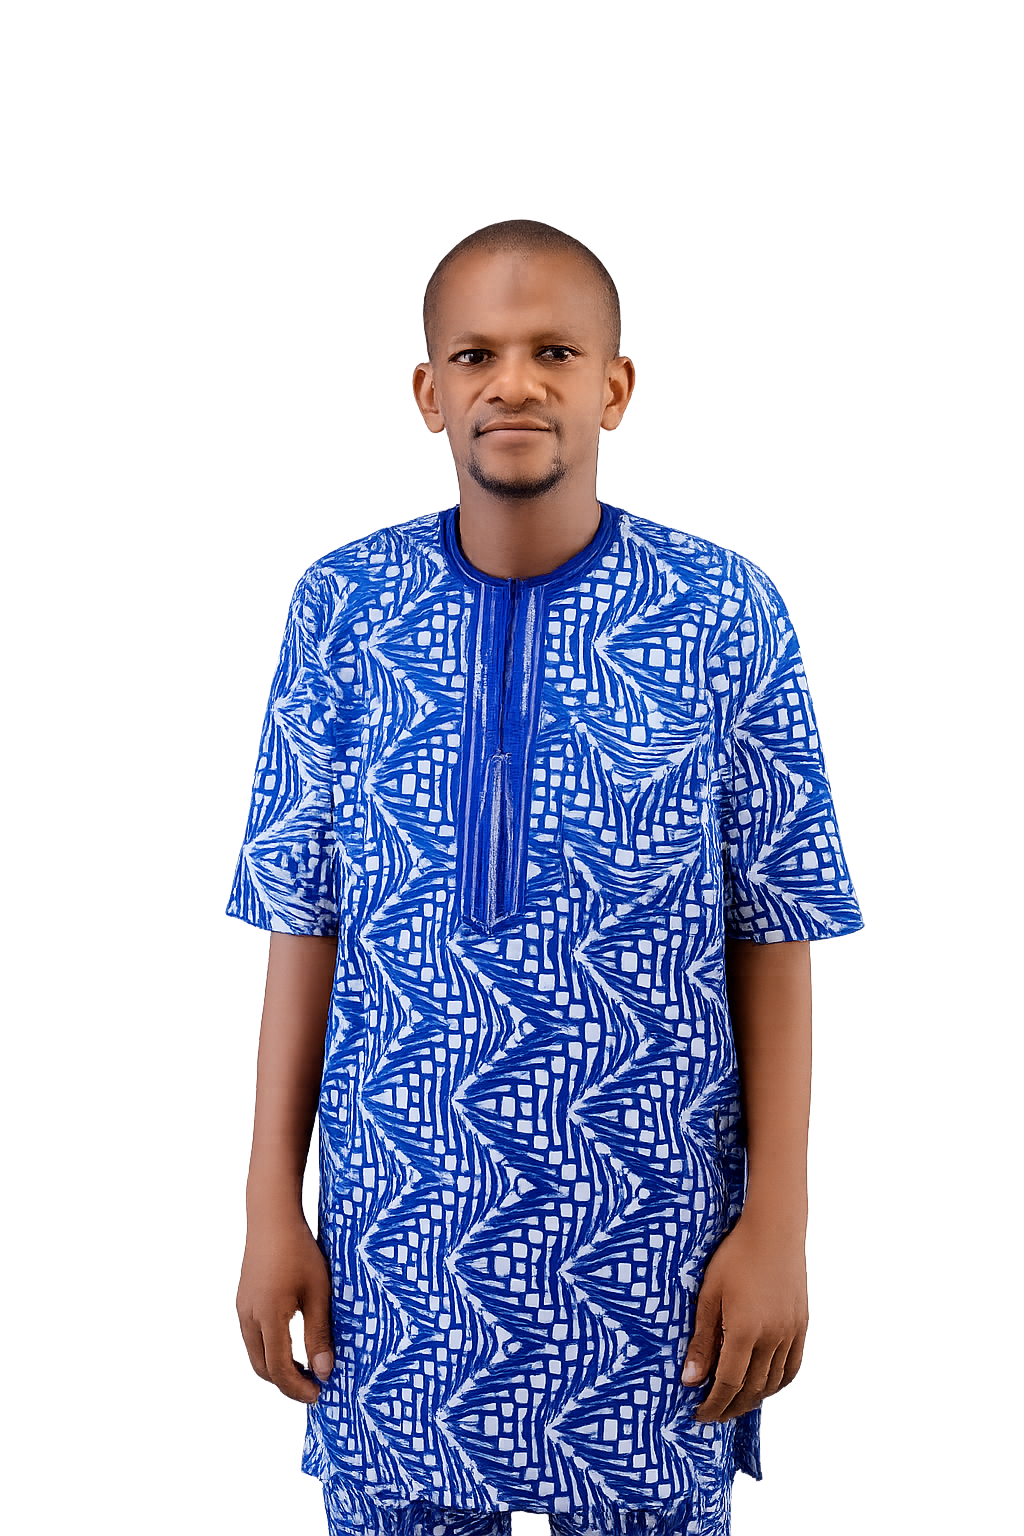
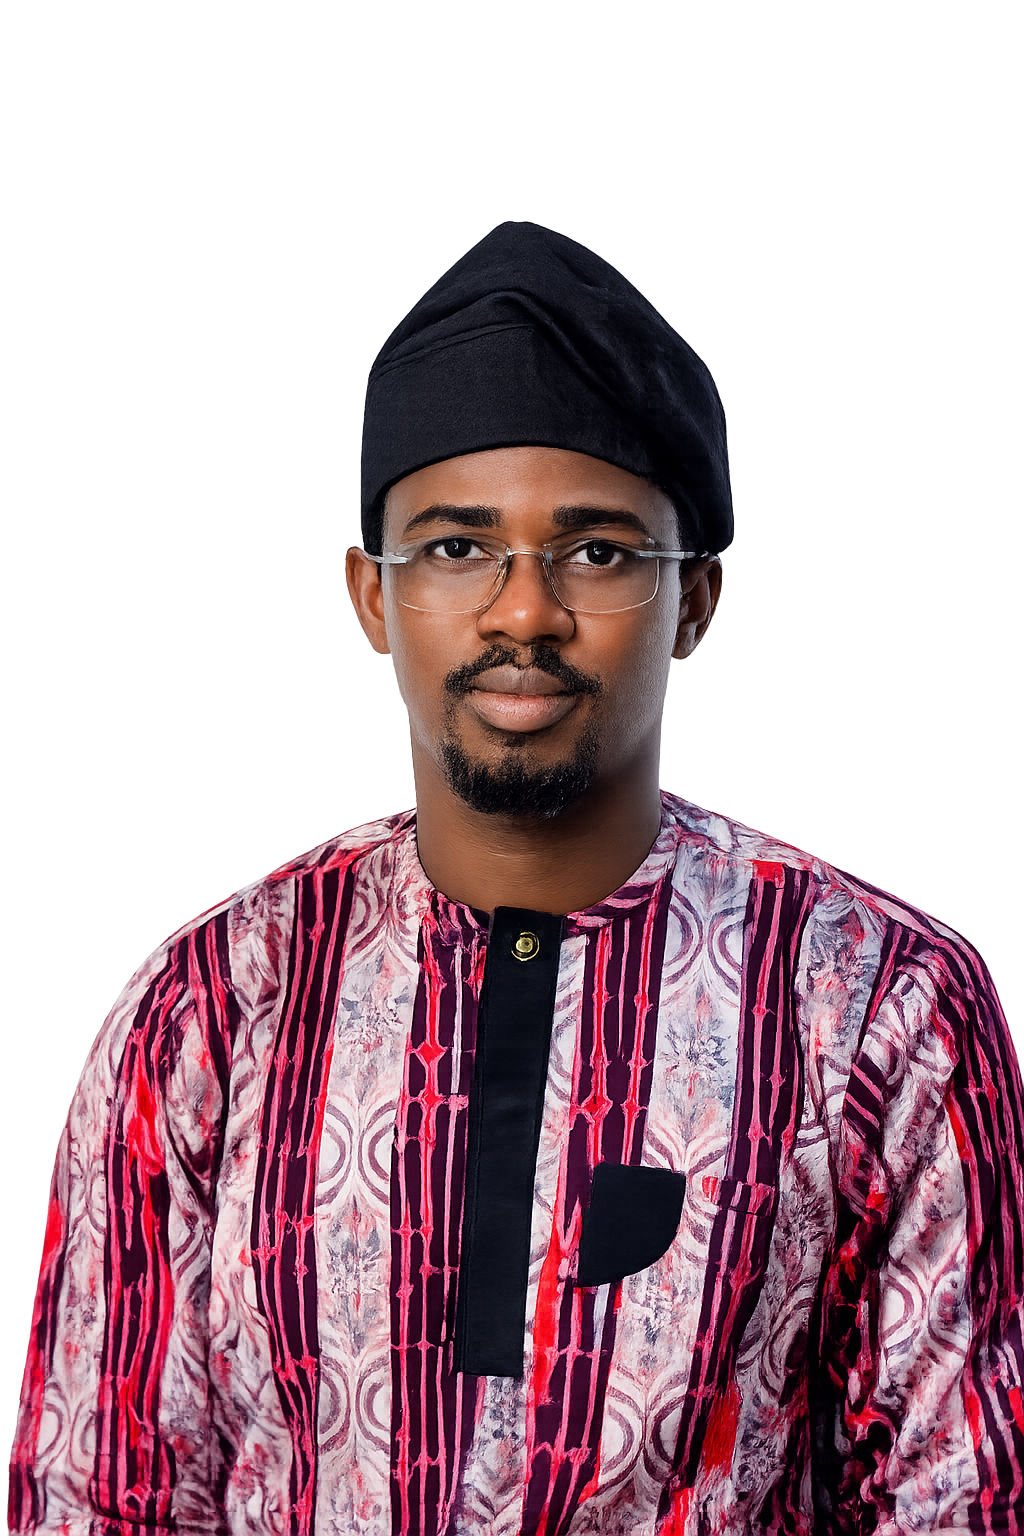
Add GA

diff --git a/ieps_3.0/ieps-summit/lib/utils.ts b/ieps_3.0/ieps-summit/lib/utils.ts
@@ -1,5 +1,6 @@
 import { clsx, type ClassValue } from "clsx";
 import { twMerge } from "tailwind-merge";
+import { SITE_URL } from "@/lib/constants";
 
 /** Merge Tailwind classes with conflict resolution. */
 export function cn(...inputs: ClassValue[]) {
@@ -31,11 +32,13 @@ export function pad(n: number): string {
 
 /**
  * Resolve the public base ORIGIN (scheme + host, never a path) for building
- * absolute links in API routes. Order: explicit env → forwarded host (proxies
- * such as Codespaces/Vercel) → request origin. Any path in an env value is
- * stripped, so a misconfigured `NEXTAUTH_URL=".../gallery"` can't leak in.
+ * absolute links in emails and certificates. Order: explicit env → the
+ * canonical SITE_URL. We deliberately do NOT fall back to the request host:
+ * certificates and emailed links are permanent, so they must never embed an
+ * ephemeral preview/Codespace host. Any path in an env value is stripped, so a
+ * misconfigured `NEXTAUTH_URL=".../gallery"` can't leak in.
  */
-export function getBaseUrl(request: Request): string {
+export function getBaseUrl(_request?: Request): string {
   const fromEnv =
     process.env.NEXT_PUBLIC_APP_URL ??
     process.env.NEXTAUTH_URL ??
@@ -44,18 +47,9 @@ export function getBaseUrl(request: Request): string {
     try {
       return new URL(fromEnv).origin;
     } catch {
-      /* fall through to headers */
+      /* fall through to the canonical site URL */
     }
   }
 
-  const host =
-    request.headers.get("x-forwarded-host") ?? request.headers.get("host");
-  if (host) {
-    const proto =
-      request.headers.get("x-forwarded-proto") ??
-      (host.includes("localhost") ? "http" : "https");
-    return `${proto}://${host}`;
-  }
-
-  return new URL(request.url).origin;
+  return SITE_URL;
 }

diff --git a/ieps_3.0/ieps-summit/lib/gallery.ts b/ieps_3.0/ieps-summit/lib/gallery.ts
@@ -42,12 +42,12 @@ export const PREVIOUS_EDITIONS: GalleryEdition[] = [
   {
     edition: "IEPS",
     photos: [
-      { src: "/gallery/ieps-1.0/1719758046035.jpg", alt: "Delegates rise for the opening of the plenary session", featured: true },
-      { src: "/gallery/ieps-1.0/1719758046587.jpg", alt: "The keynote address to a full chamber", featured: true },
-      { src: "/gallery/ieps-1.0/1719758046979.jpg", alt: "A delegate asks a question during the plenary" },
-      { src: "/gallery/ieps-1.0/1719758045037.jpg", alt: "Award presentation to Keynote Speaker" },
-      { src: "/gallery/ieps-1.0/1719758045093.jpg", alt: "Delegates networking during a break" },
-      { src: "/gallery/ieps-1.0/1719758046915.jpg", alt: "parliamentary debate in progress" },
+      { src: "/gallery/ieps-1.0/1719758046035.jpg", alt: "The panel of guests at the high table", featured: true },
+      { src: "/gallery/ieps-1.0/1719758046587.jpg", alt: "Delegates and organisers gather for a group photo", featured: true },
+      { src: "/gallery/ieps-1.0/1719758046979.jpg", alt: "Presenting the ESRC Innovative Leadership Award" },
+      { src: "/gallery/ieps-1.0/1719758045037.jpg", alt: "Award recipients with their ESRC plaques" },
+      { src: "/gallery/ieps-1.0/1719758045093.jpg", alt: "A full house of delegates at the summit" },
+      { src: "/gallery/ieps-1.0/1719758046915.jpg", alt: "Delegates share a moment for the camera" },
     ],
   },
 ];

diff --git a/ieps_3.0/ieps-summit/lib/constants.ts b/ieps_3.0/ieps-summit/lib/constants.ts
@@ -120,6 +120,7 @@ export const KEYNOTE_SPEAKERS = [
     photo: "/speakers/speaker1.png" as string | null,
     position: "center",
     scale: 1,
+    fit: "cover" as "cover" | "contain",
   },
   {
     slot: "Keynote Speaker",
@@ -129,14 +130,16 @@ export const KEYNOTE_SPEAKERS = [
     photo: "/speakers/speaker2.png" as string | null,
     position: "center top",
     scale: 1.1,
+    fit: "cover" as "cover" | "contain",
   },
   {
     slot: "Keynote Speaker",
-    name: "Mr. Dauda Abubakar Seun",
-    detail: "",
+    name: "Hon. Engr. Abiola Jeremiah",
+    detail: "Honorable representing Ife Central State Constituency, Osun State House of Assembly",
     photo: "/speakers/speaker3.png" as string | null,
-    position: "center 18%",
-    scale: 1.7,
+    position: "center",
+    scale: 1,
+    fit: "contain" as "cover" | "contain",
   },
 ] as const;
 

diff --git a/ieps_3.0/ieps-summit/components/home/SpeakersSection.tsx b/ieps_3.0/ieps-summit/components/home/SpeakersSection.tsx
@@ -10,6 +10,7 @@ function PortraitFrame({
   name,
   position = "center",
   scale = 1,
+  fit = "cover",
 }: {
   photo: string | null;
   name: string;
@@ -19,6 +20,9 @@ function PortraitFrame({
   /** extra zoom for full-body shots so the subject fills the frame like a
    *  head-and-shoulders portrait. Zooms around `position`. */
   scale?: number;
+  /** "cover" fills/crops the frame; "contain" shows the whole photo
+   *  uncropped (fitted inside the frame). */
+  fit?: "cover" | "contain";
 }) {
   return (
     <div className="relative aspect-[4/5] w-full border border-white/10 bg-navy-950 p-3">
@@ -31,7 +35,7 @@ function PortraitFrame({
             alt={`Portrait of ${name}`}
             fill
             sizes="(min-width: 768px) 33vw, 100vw"
-            className="object-cover"
+            className={fit === "contain" ? "object-contain" : "object-cover"}
             style={{
               objectPosition: position,
               transform: scale !== 1 ? `scale(${scale})` : undefined,
@@ -124,6 +128,7 @@ export function SpeakersSection() {
                   name={speaker.name}
                   position={speaker.position}
                   scale={speaker.scale}
+                  fit={speaker.fit}
                 />
                 <div className="border-x border-b border-white/10 px-6 py-5 text-center">
                   <p className="font-label text-[10px] font-semibold uppercase tracking-[0.28em] text-gold">